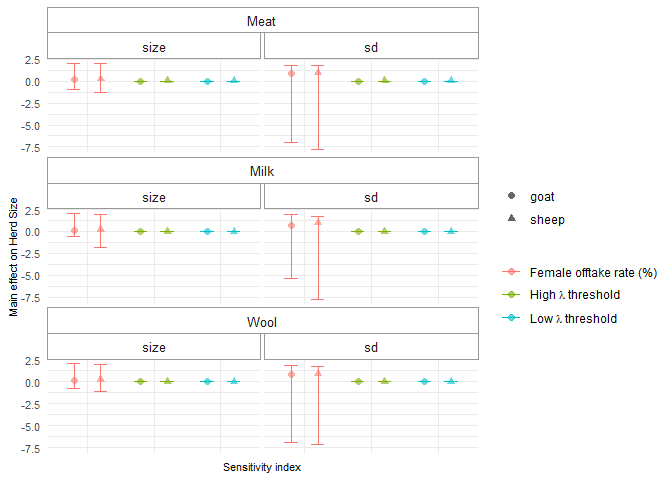
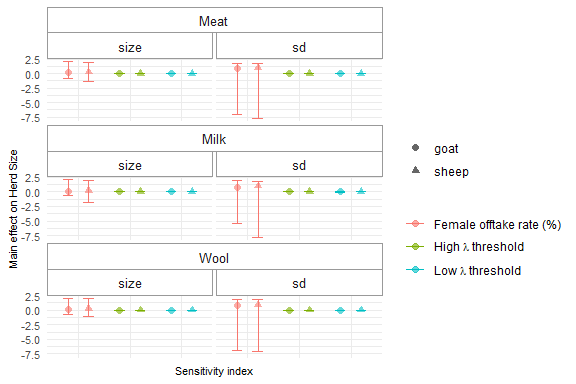
added instructions for running analysis and last figures

diff --git a/README.md b/README.md
@@ -580,7 +580,7 @@ listpar = lapply(param.props, function(p) {
 ```
 
     ##    user  system elapsed 
-    ##   29.99    0.58   31.14
+    ##   28.92    0.50   29.86
 
 ``` r
 #-- save stochastic environment to replicate results
@@ -1550,6 +1550,38 @@ to changes in the starting conditions of the herd.
 ```
 
 ``` r
+#-- load results
+# readRDS("./output/sobol_sensitivity_results.rds")
+sobol_indices = readRDS("./output/sobol_indices_df.rds")
+
+
+T7 = sobol_indices %>% 
+  filter(param=="female.offtake.range") %>% 
+  reframe(strategy, taxon, res, main_effect) %>% 
+  pivot_wider(names_from = c(strategy, res), values_from = main_effect) %>% 
+  flextable(col_keys = c(
+    "taxon", "Meat_size", "Meat_sd",  
+    "Milk_size", "Milk_sd", 
+    "Wool_size", "Wool_sd" )) %>%
+  separate_header(opts = c("center-hspan", "default-theme")) %>% 
+  # add breaks in header using as_chunk
+  add_header_lines(values = as_paragraph(list_values = c("Main effects"), align = "center")) %>%
+  colformat_double(digits = 2) %>%
+  set_table_properties(layout = "autofit", align = "center") %>%
+  theme_vanilla() 
+  # autofit() %>%
+  # theme_vanilla()
+  
+T7
+```
+
+<img src="README_files/figure-gfm/load-sensitivity-results-1.png" width="1050" />
+
+``` r
+save_as_docx(T7, path = "./tables/Table7_Sensitivity_Main_Effects.docx", pr_section = sect_properties)
+```
+
+``` r
 param_labels <- c(
   "female.offtake.range"  = "Female offtake rate (%)",
   "high.threshold.range"  = expression(High~lambda~threshold),
@@ -1613,7 +1645,14 @@ Fig11 <- sobol_indices %>%
 Fig11
 ```
 
-![](README_files/figure-gfm/Fig11%20-%20plot%20total%20effect%20indices-1.png)<!-- -->
+<figure>
+<img
+src="README_files/figure-gfm/Fig11%20-%20plot%20total%20effect%20indices-1.png"
+alt="Figure 11. Main effects of parameters on mean herd size for the Meat, Milk, and Wool strategies for sheep and goats." />
+<figcaption aria-hidden="true">Figure 11. Main effects of parameters on
+mean herd size for the Meat, Milk, and Wool strategies for sheep and
+goats.</figcaption>
+</figure>
 
 ``` r
 # save Fig 11
@@ -1673,7 +1712,14 @@ Fig12 <- sobol_indices %>%
 Fig12
 ```
 
-![](README_files/figure-gfm/Fig12%20plot%20total%20effect%20indices-1.png)<!-- -->
+<figure>
+<img
+src="README_files/figure-gfm/Fig12%20plot%20total%20effect%20indices-1.png"
+alt="Figure 12. Total effects of parameters on mean herd size for the Meat, Milk, and Wool strategies for sheep and goats." />
+<figcaption aria-hidden="true">Figure 12. Total effects of parameters on
+mean herd size for the Meat, Milk, and Wool strategies for sheep and
+goats.</figcaption>
+</figure>
 
 ``` r
 # save Fig 12
